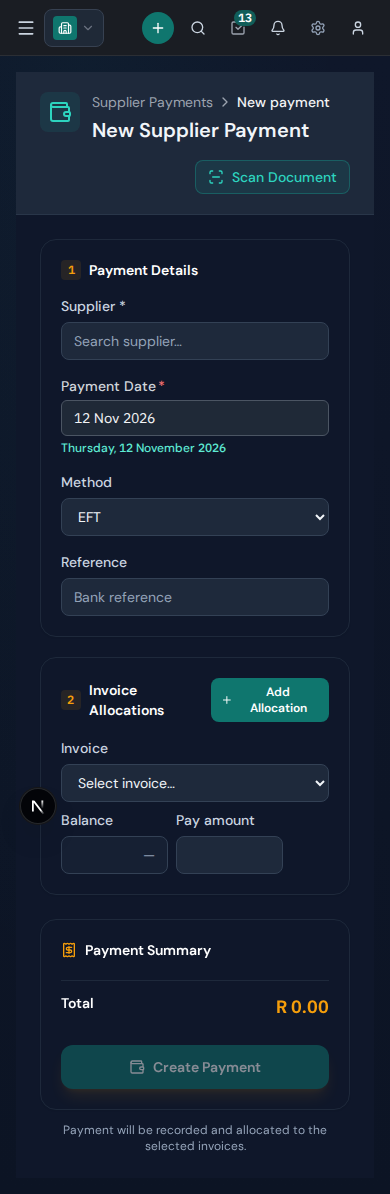
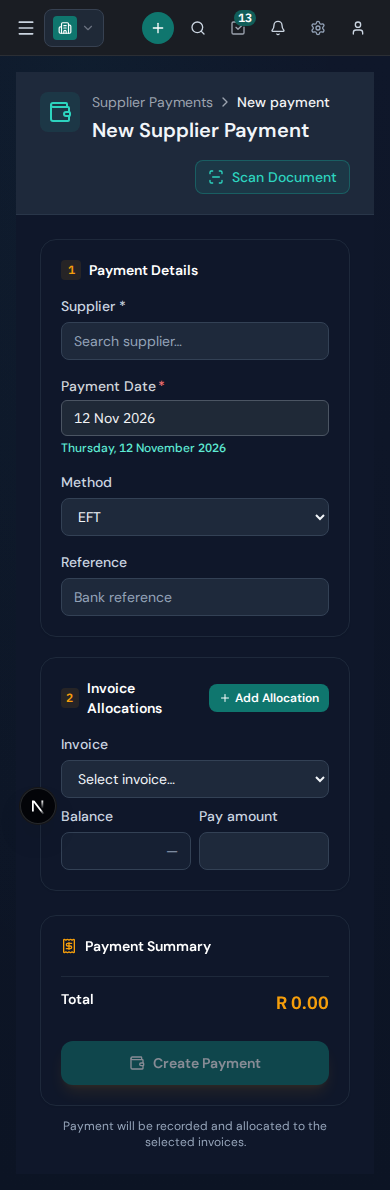
fix(accounting): supplier payment allocation rows on a phone, tests for second rows
Review follow-up on the phone layout of the receipt, supplier payment and
credit note forms.

- Supplier payment allocation row spans 12 / 6 / 6 / 12 on a phone; the
  balance never wraps; the delete cell renders only with a second row.
- "Add Allocation" stays on one line beside the card heading.
- Unit guard checks every field grid in the details and Amounts cards and
  the row 2 labels and spans.
- Golden y8 measures a second allocation row (receipt and supplier
  payment, 390 and 1440 px), a seven-figure balance at 390 px and the
  three forms at 768 px.
- Two supplier payment phone shots retaken, two two-row phone shots added.

diff --git a/tests/unit/components/mobileFormStack.test.tsx b/tests/unit/components/mobileFormStack.test.tsx
@@ -2,7 +2,7 @@
 // `flex` row with a `w-72 shrink-0` summary at every width, so at 390 px the form column was crushed to ~30 px
 // under the summary card. This is a CLASS GUARD only: jsdom has no layout, so it cannot prove the form is usable on
 // a phone. The real check is the geometry test in tests/e2e/golden-paths/y8-purchase-forms-390.spec.ts.
-import { render, screen } from '@testing-library/react';
+import { fireEvent, render, screen } from '@testing-library/react';
 import { describe, expect, it } from 'vitest';
 import './supplierFormHarness';
 import NewCustomerPayment from '../../../pages/accounting/customer-payments/new';
@@ -10,28 +10,55 @@ import NewSupplierPayment from '../../../pages/accounting/supplier-payments/new'
 import NewCreditNote from '../../../pages/accounting/credit-notes/new';
 
 const FORMS = [
-  { name: 'customer-payments/new', Page: NewCustomerPayment, summary: 'Payment Summary', details: 'Payment Details' },
-  { name: 'supplier-payments/new', Page: NewSupplierPayment, summary: 'Payment Summary', details: 'Payment Details' },
-  { name: 'credit-notes/new', Page: NewCreditNote, summary: 'Summary', details: 'Credit Note Details' },
+  { name: 'customer-payments/new', Page: NewCustomerPayment, summary: 'Payment Summary', cards: ['Payment Details'] },
+  { name: 'supplier-payments/new', Page: NewSupplierPayment, summary: 'Payment Summary', cards: ['Payment Details'] },
+  { name: 'credit-notes/new', Page: NewCreditNote, summary: 'Summary', cards: ['Credit Note Details', 'Amounts'] },
 ];
 
 const classes = (el: Element | null | undefined): string[] => (el?.getAttribute('class') ?? '').split(/\s+/);
 
-describe.each(FORMS)('$name at phone width', ({ Page, summary, details }) => {
+describe.each(FORMS)('$name at phone width', ({ Page, summary, cards }) => {
   it('stacks the summary under the form below lg, beside it from lg up', () => {
     render(<Page />);
-    const sidebar = screen.getByRole('heading', { name: summary, exact: true }).closest('.shrink-0');
+    const sidebar = screen.getByRole('heading', { name: summary }).closest('.shrink-0');
     expect(sidebar, 'summary column').not.toBeNull();
     expect(classes(sidebar)).toEqual(expect.arrayContaining(['w-full', 'lg:w-72']));
     expect(classes(sidebar)).not.toContain('w-72');
     expect(classes(sidebar?.parentElement)).toEqual(expect.arrayContaining(['flex-col', 'lg:flex-row']));
   });
 
-  it('gives the details card one column of fields on a phone', () => {
+  it.each(cards)('gives the %s card one column of fields on a phone', (heading) => {
     render(<Page />);
-    const card = screen.getByRole('heading', { name: new RegExp(details) }).parentElement;
-    const grid = card?.querySelector('.grid');
-    expect(classes(grid)).toContain('grid-cols-1');
-    expect(classes(grid).filter(c => /^grid-cols-[2-9]$/.test(c)), 'multi-column only from sm up').toEqual([]);
+    const grids = [...(screen.getByRole('heading', { name: new RegExp(heading) }).parentElement?.querySelectorAll('.grid') ?? [])];
+    expect(grids.length, 'the card has a field grid').toBeGreaterThan(0);
+    for (const grid of grids) {
+      expect(classes(grid)).toContain('grid-cols-1');
+      expect(classes(grid).filter(c => /^grid-cols-[2-9]$/.test(c)), 'multi-column only from sm up').toEqual([]);
+      expect(classes(grid).filter(c => /^col-span-[2-9]$/.test(c)), 'no fixed span on a phone').toEqual([]);
+    }
+  });
+});
+
+// Supplier payment allocations: labels on every row on a phone (a stacked row is never unlabelled), on row 1 only
+// from sm up, where they read as column headers. Rows 2+ only exist after "Add Allocation".
+describe('supplier-payments/new allocation rows', () => {
+  it('labels row 2 on a phone and hides those labels from sm up; row 1 labels always show', () => {
+    render(<NewSupplierPayment />);
+    fireEvent.click(screen.getByRole('button', { name: /Add Allocation/ }));
+    for (const text of ['Invoice', 'Balance', 'Pay amount']) {
+      const labels = screen.getAllByText(text, { selector: 'label' });
+      expect(labels, text).toHaveLength(2);
+      expect(classes(labels[0]), `row 1 ${text}`).not.toContain('sm:hidden');
+      expect(classes(labels[1]), `row 2 ${text}`).toContain('sm:hidden');
+      expect(classes(labels[1]), `row 2 ${text} shows on a phone`).not.toContain('hidden');
+    }
+  });
+
+  it('spans the cells 12 / 6 / 6 / 12 on a phone and 6 / 2 / 3 / 1 from sm', () => {
+    render(<NewSupplierPayment />);
+    fireEvent.click(screen.getByRole('button', { name: /Add Allocation/ }));
+    const row = screen.getAllByText('Balance', { selector: 'label' })[1].closest('.grid');
+    const spans = [...(row?.children ?? [])].map(c => classes(c).filter(k => /^(sm:)?col-span-\d+$/.test(k)).join(' '));
+    expect(spans).toEqual(['col-span-12 sm:col-span-6', 'col-span-6 sm:col-span-2', 'col-span-6 sm:col-span-3', 'col-span-12 sm:col-span-1']);
   });
 });

diff --git a/tests/e2e/golden-paths/y8-purchase-forms-390.spec.ts b/tests/e2e/golden-paths/y8-purchase-forms-390.spec.ts
@@ -144,3 +144,64 @@ for (const form of ENTRY_FORMS) {
     expect(await layoutFaults(page, 100)).toEqual({ narrow: [], overlaps: [] });
   });
 }
+
+// Second allocation rows (review of the 12 Nov change): the delete button and, on the supplier payment, the row 2
+// labels only exist once a row is added, so measure with two rows. No client or supplier is picked; nothing is saved.
+const ALLOCATIONS = [
+  { form: ENTRY_FORMS[0], add: 'Add Line' },
+  { form: ENTRY_FORMS[1], add: 'Add Allocation' },
+];
+for (const { form, add } of ALLOCATIONS) {
+  for (const width of [390, 1440]) {
+    test(`${form.title} ${width} px: a second allocation row keeps its fields, labels and delete button in the card`, async ({ page }) => {
+      await page.setViewportSize({ width, height: 900 });
+      await open(page, form);
+      const button = page.getByRole('button', { name: add });
+      await button.click();
+      const selects = page.locator('main select[name=invoiceId]');
+      await expect(selects).toHaveCount(2);
+      const card = await box(cardOf(button));
+      const [addBox, heading] = [await box(button), await box(page.getByRole('heading', { name: 'Invoice Allocations' }))];
+      expect(addBox.height, `${add} stays on one line`).toBeLessThan(40);
+      expect(Math.abs(addBox.y - heading.y), `${add} sits beside the card heading`).toBeLessThan(12);
+      const row2 = await box(selects.nth(1));
+      const bin = await box(selects.nth(1).locator('xpath=ancestor::div[.//button][1]').locator('button').last());
+      expect(bin.x + bin.width, 'delete button inside the card').toBeLessThanOrEqual(card.x + card.width);
+      if (width === 390) expect(row2.width, 'invoice select takes the full row on a phone').toBeGreaterThanOrEqual(card.width - 60);
+      expect(await page.evaluate(() => document.documentElement.scrollWidth), 'no sideways scroll').toBeLessThanOrEqual(width);
+      expect(await layoutFaults(page, 100)).toEqual({ narrow: [], overlaps: [] });
+      if (add === 'Add Allocation') {
+        for (const label of ['Invoice', 'Balance', 'Pay amount']) {
+          await expect(page.locator('main label').getByText(label, { exact: true }).filter({ visible: true }),
+            `${label}: on every row on a phone, a column header (row 1 only) from sm`).toHaveCount(width === 390 ? 2 : 1);
+        }
+      }
+    });
+  }
+}
+
+test('New Supplier Payment 390 px: a seven-figure balance fits its cell', async ({ page }) => {
+  await page.setViewportSize({ width: 390, height: 844 });
+  await open(page, ENTRY_FORMS[1]);
+  const cell = page.locator('main label:text-is("Balance") + div').first();
+  // The cell shows formatCurrency(balance); no supplier is picked here, so write the widest realistic value into it.
+  const fit = await cell.evaluate((e) => {
+    const before = e.getBoundingClientRect().height;
+    e.textContent = 'R 1 234 567.89';
+    return { clipped: e.scrollWidth > e.clientWidth, wrapped: e.getBoundingClientRect().height > before + 1 };
+  });
+  expect(fit, 'R 1 234 567.89 shows on one line, unclipped').toEqual({ clipped: false, wrapped: false });
+});
+
+// Between sm and lg the forms stack with two and three column grids.
+for (const form of ENTRY_FORMS) {
+  test(`${form.title} 768 px: the summary sits under the form, fields keep their width`, async ({ page }) => {
+    await page.setViewportSize({ width: 768, height: 1024 });
+    await open(page, form);
+    const details = await box(cardOf(page.getByRole('heading', { name: form.details })));
+    const summary = await box(summaryCard(page, form));
+    expect(summary.y, 'summary starts below the details card').toBeGreaterThanOrEqual(details.y + details.height);
+    expect(await page.evaluate(() => document.documentElement.scrollWidth), 'no sideways scroll').toBeLessThanOrEqual(768);
+    expect(await layoutFaults(page, 100)).toEqual({ narrow: [], overlaps: [] });
+  });
+}

diff --git a/pages/accounting/supplier-payments/new.tsx b/pages/accounting/supplier-payments/new.tsx
@@ -154,12 +154,12 @@ export default function NewSupplierPaymentPage() {
               </div>
 
               <div className={`${card} p-5`}>
-                <div className="flex items-center justify-between mb-4">
+                <div className="flex items-center justify-between gap-3 mb-4">
                   <h3 className="text-sm font-semibold text-slate-900 dark:text-white flex items-center gap-2">
                     <span className="w-5 h-5 rounded bg-amber-500/10 flex items-center justify-center text-amber-500 text-xs font-bold">2</span>
                     Invoice Allocations
                   </h3>
-                  <button type="button" onClick={addAllocation} className="inline-flex items-center gap-1 text-xs px-2.5 py-1.5 rounded-lg bg-brand-600 hover:bg-brand-700 text-white font-semibold transition-colors">
+                  <button type="button" onClick={addAllocation} className="inline-flex shrink-0 items-center gap-1 whitespace-nowrap text-xs px-2.5 py-1.5 rounded-lg bg-brand-600 hover:bg-brand-700 text-white font-semibold transition-colors">
                     <Plus className="h-3 w-3" /> Add Allocation
                   </button>
                 </div>
@@ -180,19 +180,19 @@ export default function NewSupplierPaymentPage() {
                             {invoices.map(inv => <option key={inv.id} value={inv.id}>{inv.invoiceNumber} — Balance: {formatCurrency(inv.balance)}</option>)}
                           </select>
                         </div>
-                        <div className="col-span-5 sm:col-span-2">
+                        <div className="col-span-6 sm:col-span-2">
                           <label className={idx === 0 ? lbl : `${lbl} sm:hidden`}>Balance</label>
-                          <div className={`${inp} bg-slate-50 dark:bg-slate-800/50 text-slate-500 dark:text-slate-400 text-right tabular-nums`}>{selectedInvoice ? formatCurrency(selectedInvoice.balance) : '—'}</div>
+                          <div className={`${inp} bg-slate-50 dark:bg-slate-800/50 text-slate-500 dark:text-slate-400 text-right tabular-nums whitespace-nowrap`}>{selectedInvoice ? formatCurrency(selectedInvoice.balance) : '—'}</div>
                         </div>
-                        <div className="col-span-5 sm:col-span-3">
+                        <div className="col-span-6 sm:col-span-3">
                           <label className={idx === 0 ? lbl : `${lbl} sm:hidden`}>Pay amount</label>
                           <input type="number" aria-label="Pay Amount" step="0.01" min="0" max={selectedInvoice?.balance || undefined} value={alloc.amount || ''} onChange={e => updateAllocation(alloc.key, 'amount', Number(e.target.value))} className={`${inp} text-right`} />
                         </div>
-                        <div className="col-span-2 sm:col-span-1 flex justify-center">
-                          {allocations.length > 1 && (
+                        {allocations.length > 1 && (
+                          <div className="col-span-12 sm:col-span-1 flex justify-end sm:justify-center">
                             <button type="button" onClick={() => removeAllocation(alloc.key)} className="p-1.5 rounded-lg hover:bg-red-50 dark:hover:bg-red-900/20 text-slate-500 dark:text-slate-400 hover:text-red-500 transition-colors"><Trash2 className="h-4 w-4" /></button>
-                          )}
-                        </div>
+                          </div>
+                        )}
                       </div>
                     );
                   })}
